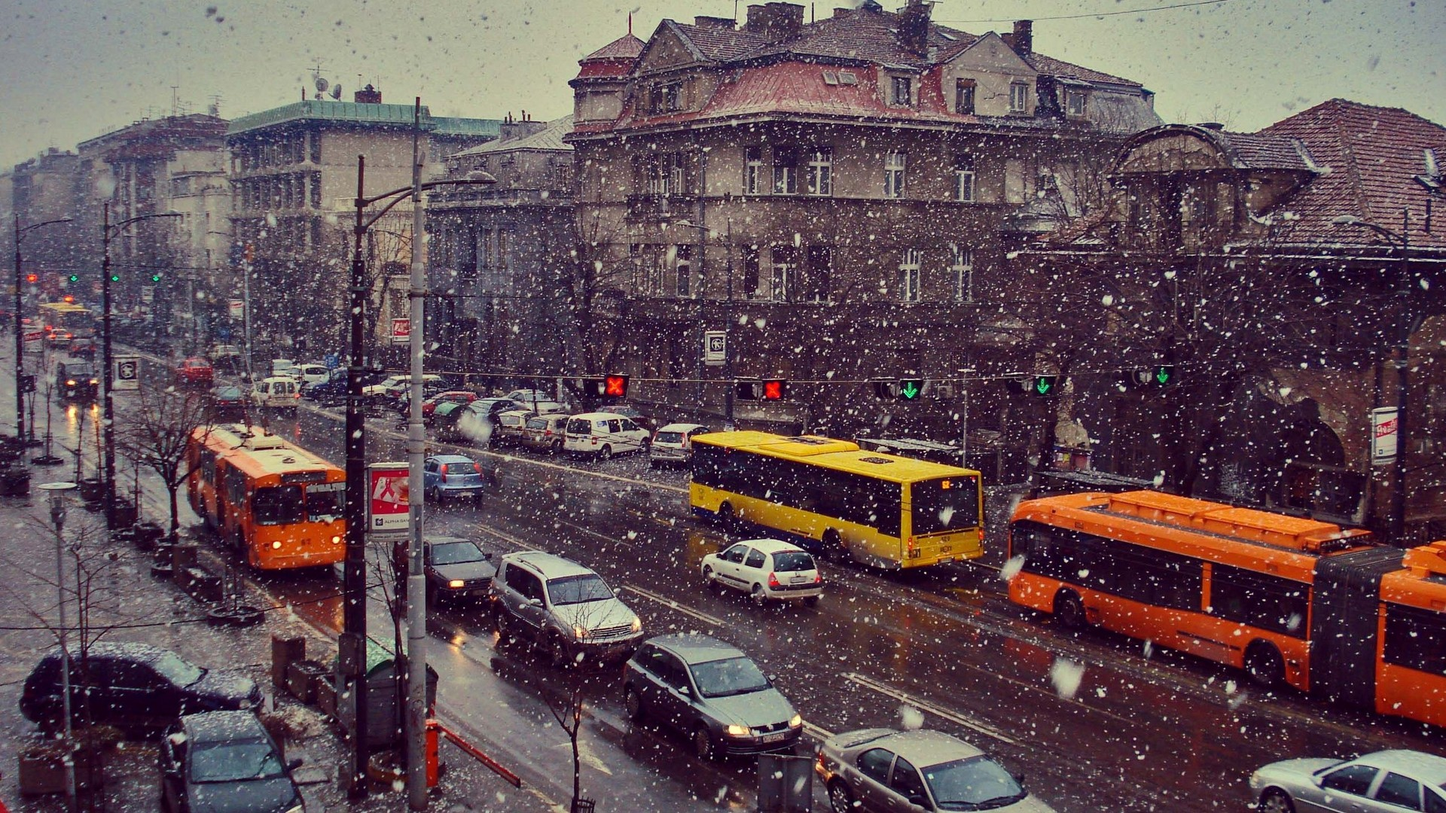
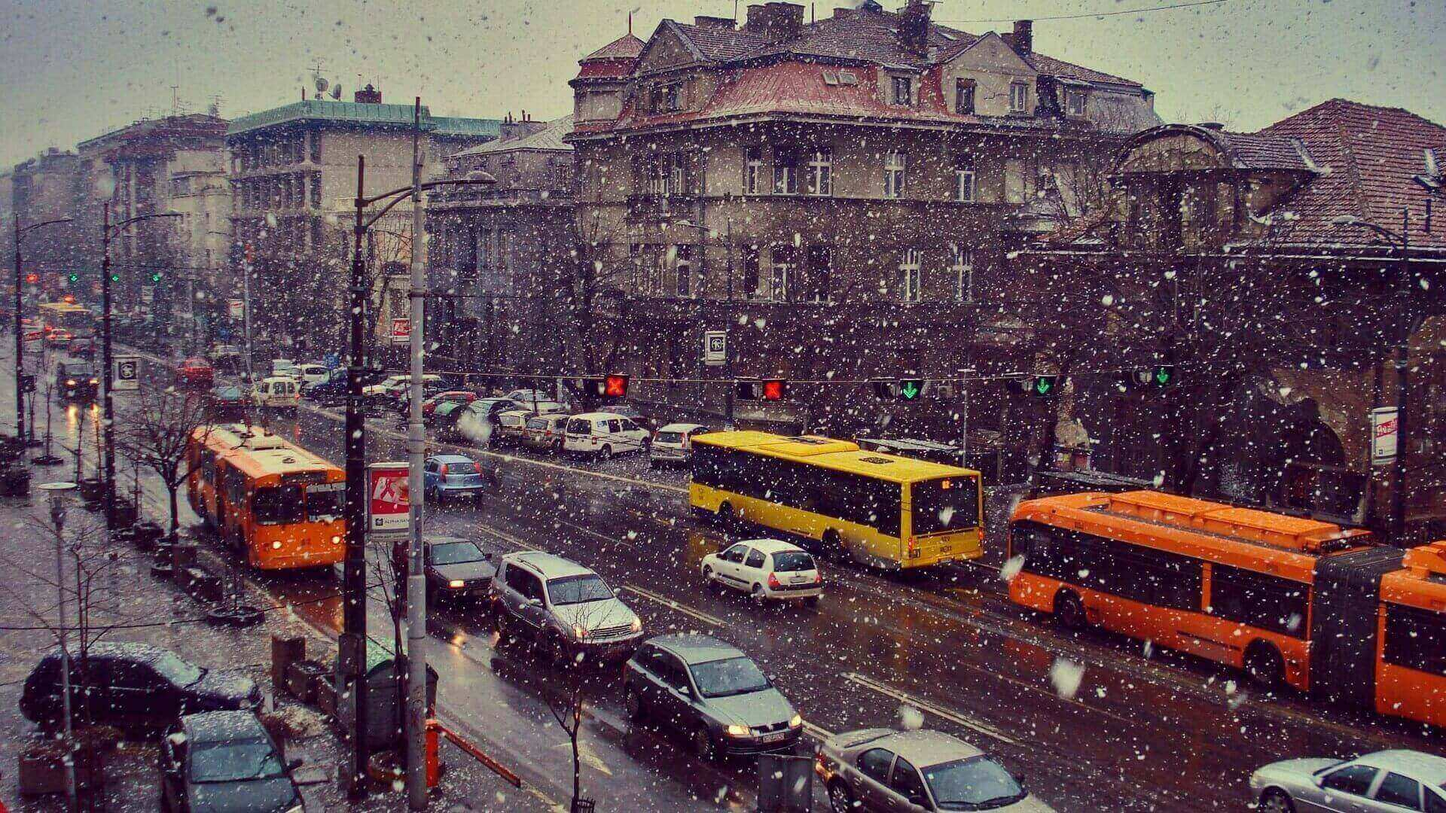
压缩图片

diff --git a/source/_posts/vpn-shadowsocks.md b/source/_posts/vpn-shadowsocks.md
@@ -123,8 +123,7 @@ ssserver -c /etc/shadowsocks.json -d start
 
 ## Windows环境使用
 
-主机环境搭建完成之后，我们需要在不同端连接使用VPN，最常用的端就是Windows环境的PC端了。  
-首先，我们需要去[下载Windows环境下的shadowsocks][5]。
+主机环境搭建完成之后，我们需要在不同端连接使用VPN，最常用的端就是Windows环境的PC端了。首先，我们需要去[下载Windows环境下的shadowsocks][5]。
 
 解压后，运行 `Shadowsocks.exe` ，按照之前服务器主机的配置，填入`服务器IP`、`端口号`和`连接密码`，确定即可。  
 

diff --git a/source/tags/index.md b/source/tags/index.md
@@ -2,5 +2,5 @@
 layout: "tags"
 title: "Tags"
 description: "明日安在，无人能允。"
-header-img: "/img/header_img/tag.png"
+header-img: "/img/header_img/tag.jpg"
 ---
